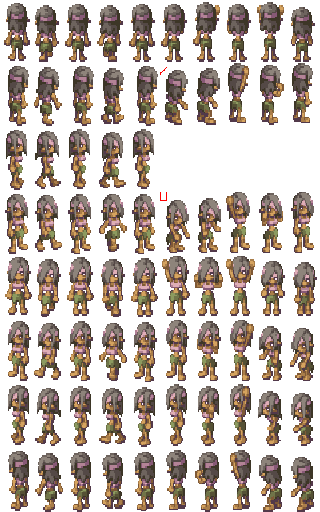
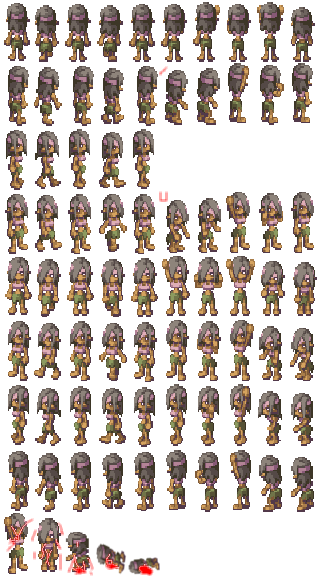
Make day longer than night; implement zombie death animation

diff --git a/Entity.cpp b/Entity.cpp
@@ -7,12 +7,13 @@ const uint8_t ENTITY_W = 32, ENTITY_H = 64;
 const uint16_t GEN_VILLAGERS = 2048;
 const uint16_t GEN_ZOMBIES = 256;
 const float ANI_INTERVAL = 2;
+const uint8_t SHOOT_DISTANCE = 16;
 const uint8_t ATTACK_DISTANCE = 8;
 const uint8_t MAX_HEALTH = 255;
 const float NORMAL_SPEED = .02, ATTACK_SPEED = .1;
 const uint8_t PROJECTILE_DAMAGE = 32;
 const float PROJECTILE_SPEED = .25;
-const uint8_t REWARD_HEALTH = 32;
+const uint8_t REWARD_HEALTH = 1;
 
 class Entity;
 std::vector<Entity*> entity = std::vector<Entity*>();
@@ -122,6 +123,8 @@ void Entity::harm (uint8_t damage)
         } else if (type == E_ZOMBIE) {
             is_dead = true;
             health_score = 0;
+            frame = 0;
+            speed = NORMAL_SPEED*3; //For the animation
         }
     }
 }
@@ -142,7 +145,7 @@ void Entity::think (bool is_nighttime)
                 for (uint16_t e = 0; e < entity.size(); ++e)
                 {
                   if (entity[e]->type != E_ZOMBIE || entity[e]->is_dead) { continue; }
-                  if (eD_approx(pos_X, pos_Y, entity[e]->pos_X, entity[e]->pos_Y) < ATTACK_DISTANCE) {
+                  if (eD_approx(pos_X, pos_Y, entity[e]->pos_X, entity[e]->pos_Y) < SHOOT_DISTANCE / (is_nighttime+1)) {
                     shoot(entity[e]);
                     break;
                   }
@@ -236,8 +239,8 @@ void Entity::animate ()
     animate_clock += speed * 4;
     if (animate_clock > ANI_INTERVAL) {
         animate_clock = 0;
-        if (had_moved) { ++frame; }
-        had_moved = false;
+        if (is_dead) { if (frame < 4) { ++frame; } return; }
+        if (had_moved) { ++frame; had_moved = false; }
     }
 }
 
@@ -246,6 +249,7 @@ void Entity::shoot (Entity* victim)
   double dir_X, dir_Y;
   targToVec(this->pos_X, this->pos_Y, victim->pos_X, victim->pos_Y, dir_X, dir_Y);
   float dir_ang = vecToAng(dir_X, dir_Y);
+  this->rot = dir_ang;
   projectile.push_back(new Projectile(this->pos_X, this->pos_Y, dir_ang, this));
 }
 

diff --git a/display.cpp b/display.cpp
@@ -23,7 +23,7 @@ float sky_darkness = 0;
 const uint16_t daynight_cycle = 2000;
 float daynight_colour (uint32_t game_time, uint16_t x, uint16_t y) {
     float lux = getLux(x, y);
-    sky_darkness = ((fabs(sin(float(game_time + daynight_cycle) / daynight_cycle)) * .9) + .1);
+    sky_darkness = ((fabs(cos(float(game_time + daynight_cycle) / daynight_cycle)) * .9) + .1);
     lux = sky_darkness + (lux / 5);
     return (lux < 1 ? lux : 1);
 }
@@ -51,6 +51,11 @@ void getVillagerTex (Entity* e, uint16_t &tex_X, uint16_t &tex_Y)
 }
 void getZombieTex (Entity* e, uint16_t &tex_X, uint16_t &tex_Y)
 {
+    if (e->is_dead) {
+        tex_X = ENTITY_W * e->frame;
+        tex_Y = ENTITY_H * 8;
+        return;
+    }
     if (e->frame > 4) { e->frame = 1; }
     //Calculate the angle to show the sprite
     uint16_t a = normaliseAng(e->rot - 23);
@@ -236,10 +241,12 @@ void drawEntities (Entity* prot, uint32_t game_time, sf::RenderWindow &window, s
                     break;
             }
           //Draw floating text
-            txt_float.setPosition(sf::Vector2f(draw_X, draw_Y));
-            txt_float.setString(std::to_string(uint16_t(entity[e]->health_score / 255 * 100)));
-            txt_float.setFillColor(color);
-            window.draw(txt_float);
+            if (!entity[e]->is_dead) {
+                txt_float.setPosition(sf::Vector2f(draw_X, draw_Y));
+                txt_float.setString(std::to_string(uint16_t(entity[e]->health_score / 255 * 100)));
+                txt_float.setFillColor(color);
+                window.draw(txt_float);
+            }
         }
     }
 }

diff --git a/main.cpp b/main.cpp
@@ -165,10 +165,10 @@ int main ()
         uint16_t ents = 0, humans = 0, zombies = 0;
         for (uint16_t e = 2; e < entity.size(); ++e) {
             Entity* ent = entity[e];
+            ent->animate();
             if (ent->is_dead) { continue; }
             if (rb(0.01)) { ent->think(is_nighttime); }
             ent->move();
-            ent->animate();
 
             ++ents;
             if (ent->type == E_VILLAGER) { ++humans; }
